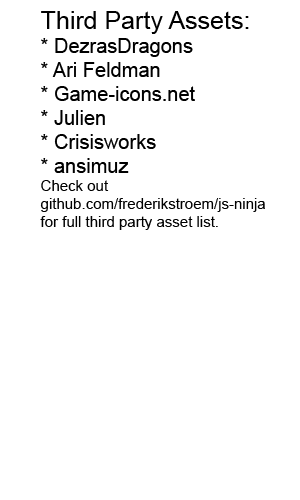
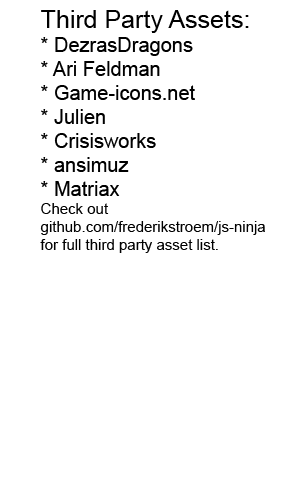
New tiles

diff --git a/THIRD-PARTY-ASSETS.md b/THIRD-PARTY-ASSETS.md
@@ -25,3 +25,7 @@ This page links and credits all game art, music and so on that other creators ha
 *By ansimuz*
 
 [Webpage link.](https://opengameart.org/content/mountain-at-dusk-background)
+### Inca Tileset
+*By Matriax*
+
+[Webpage link.](https://opengameart.org/content/inca-tileset)
